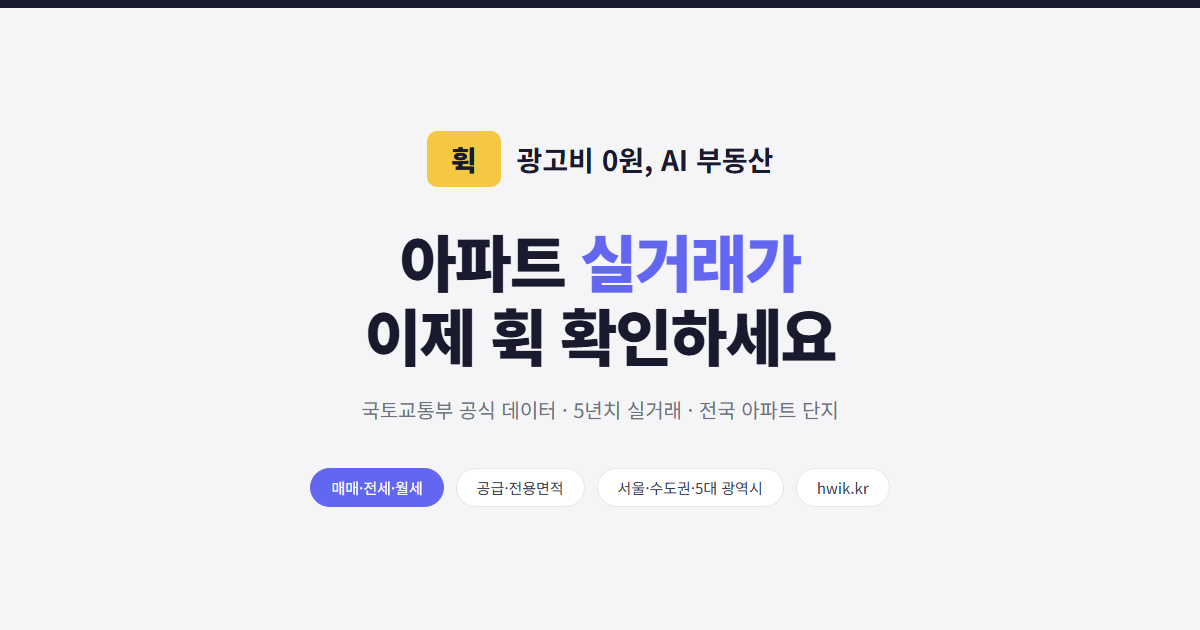
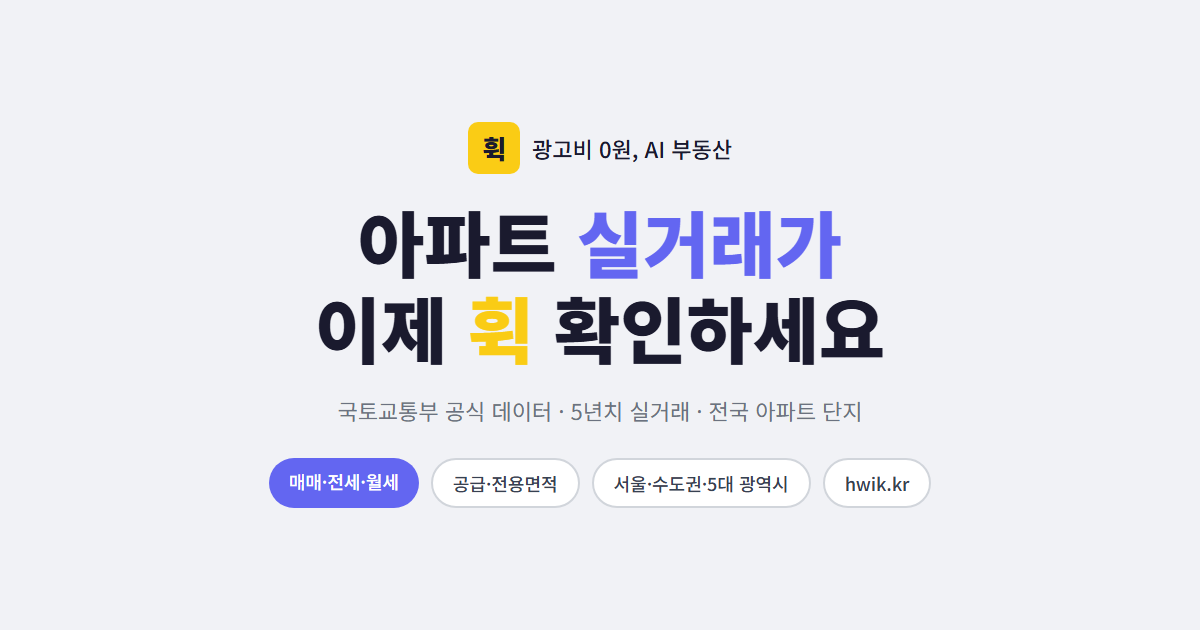
feat: OG 이미지 단일 파일로 통일 (단지/동 → og-image.png), 워크플로우 OG 생성 스텝 제거

diff --git a/generate_og_image.py b/generate_og_image.py
@@ -1,0 +1,92 @@
+"""
+generate_og_image.py — og-image.png 재생성
+"휙" 텍스트를 노란색(#facc15)으로 표시
+"""
+from playwright.sync_api import sync_playwright
+
+HTML = """<!DOCTYPE html>
+<html>
+<head>
+<meta charset="utf-8">
+<style>
+  * { margin: 0; padding: 0; box-sizing: border-box; }
+  body {
+    width: 1200px; height: 630px;
+    background: #f1f2f6;
+    display: flex;
+    flex-direction: column;
+    align-items: center;
+    justify-content: center;
+    font-family: 'Apple SD Gothic Neo', 'Noto Sans KR', sans-serif;
+    gap: 24px;
+  }
+  .logo-row {
+    display: flex;
+    align-items: center;
+    gap: 12px;
+  }
+  .logo-box {
+    background: #facc15;
+    border-radius: 10px;
+    width: 52px; height: 52px;
+    display: flex; align-items: center; justify-content: center;
+    font-size: 26px; font-weight: 900; color: #1a1a2e;
+  }
+  .logo-text {
+    font-size: 22px; color: #1a1a2e; font-weight: 500;
+  }
+  .main-text {
+    text-align: center;
+    font-size: 72px;
+    font-weight: 900;
+    color: #1a1a2e;
+    line-height: 1.2;
+  }
+  .main-text .accent { color: #6366f1; }
+  .main-text .yellow { color: #facc15; }
+  .sub-text {
+    font-size: 22px;
+    color: #6b7280;
+  }
+  .tags {
+    display: flex;
+    gap: 12px;
+    margin-top: 8px;
+  }
+  .tag {
+    padding: 10px 20px;
+    border-radius: 999px;
+    font-size: 18px;
+    font-weight: 500;
+  }
+  .tag-filled { background: #6366f1; color: white; }
+  .tag-outline { border: 2px solid #d1d5db; color: #374151; background: white; }
+</style>
+</head>
+<body>
+  <div class="logo-row">
+    <div class="logo-box">휙</div>
+    <div class="logo-text">광고비 0원, AI 부동산</div>
+  </div>
+  <div class="main-text">
+    아파트 <span class="accent">실거래가</span><br>
+    이제 <span class="yellow">휙</span> 확인하세요
+  </div>
+  <div class="sub-text">국토교통부 공식 데이터 · 5년치 실거래 · 전국 아파트 단지</div>
+  <div class="tags">
+    <div class="tag tag-filled">매매·전세·월세</div>
+    <div class="tag tag-outline">공급·전용면적</div>
+    <div class="tag tag-outline">서울·수도권·5대 광역시</div>
+    <div class="tag tag-outline">hwik.kr</div>
+  </div>
+</body>
+</html>"""
+
+with sync_playwright() as p:
+    browser = p.chromium.launch()
+    page = browser.new_page(viewport={"width": 1200, "height": 630})
+    page.set_content(HTML)
+    page.wait_for_timeout(500)
+    page.screenshot(path="og-image.png")
+    browser.close()
+    print("✅ og-image.png 생성 완료")

diff --git a/build_danji_pages.py b/build_danji_pages.py
@@ -53,10 +53,8 @@ OG_DEFAULT = "https://hwik.kr/og-image.png"
 OG_STORAGE = "https://jqaxejgzkchxbfzgzyzi.supabase.co/storage/v1/object/public/og-images/danji"
 
 def get_og_image_url(did: str) -> str:
-    """manifest에 등록된 경우 전용 이미지, 아니면 기본 이미지 반환"""
-    if did in OG_MANIFEST:
-        return f"{OG_STORAGE}/{hashlib.md5(did.encode('utf-8')).hexdigest()}.png"
-    return OG_DEFAULT
+    """공통 OG 이미지 반환"""
+    return "https://hwik.kr/og-image.png"
 
 # /gu/ 페이지가 존재하는 지역 (전국 17개 광역시도 모두 생성)
 from regions import REGION_LABEL_TO_KEY as _RLTK

diff --git a/build_dong_pages.py b/build_dong_pages.py
@@ -590,7 +590,7 @@ def build_dong_html(gu, dong, danji_list, region, same_gu_dongs, dong_slug_map=N
 <meta property="og:locale" content="ko_KR">
 <meta property="og:title" content="{esc(title)}">
 <meta property="og:description" content="{esc(desc)}">
-<meta property="og:image" content="https://jqaxejgzkchxbfzgzyzi.supabase.co/storage/v1/object/public/og-images/dong/{hashlib.md5(slug.encode('utf-8')).hexdigest()}.png">
+<meta property="og:image" content="https://hwik.kr/og-image.png">
 <meta property="og:image:width" content="1200">
 <meta property="og:image:height" content="630">
 <meta property="og:url" content="{canonical}">
